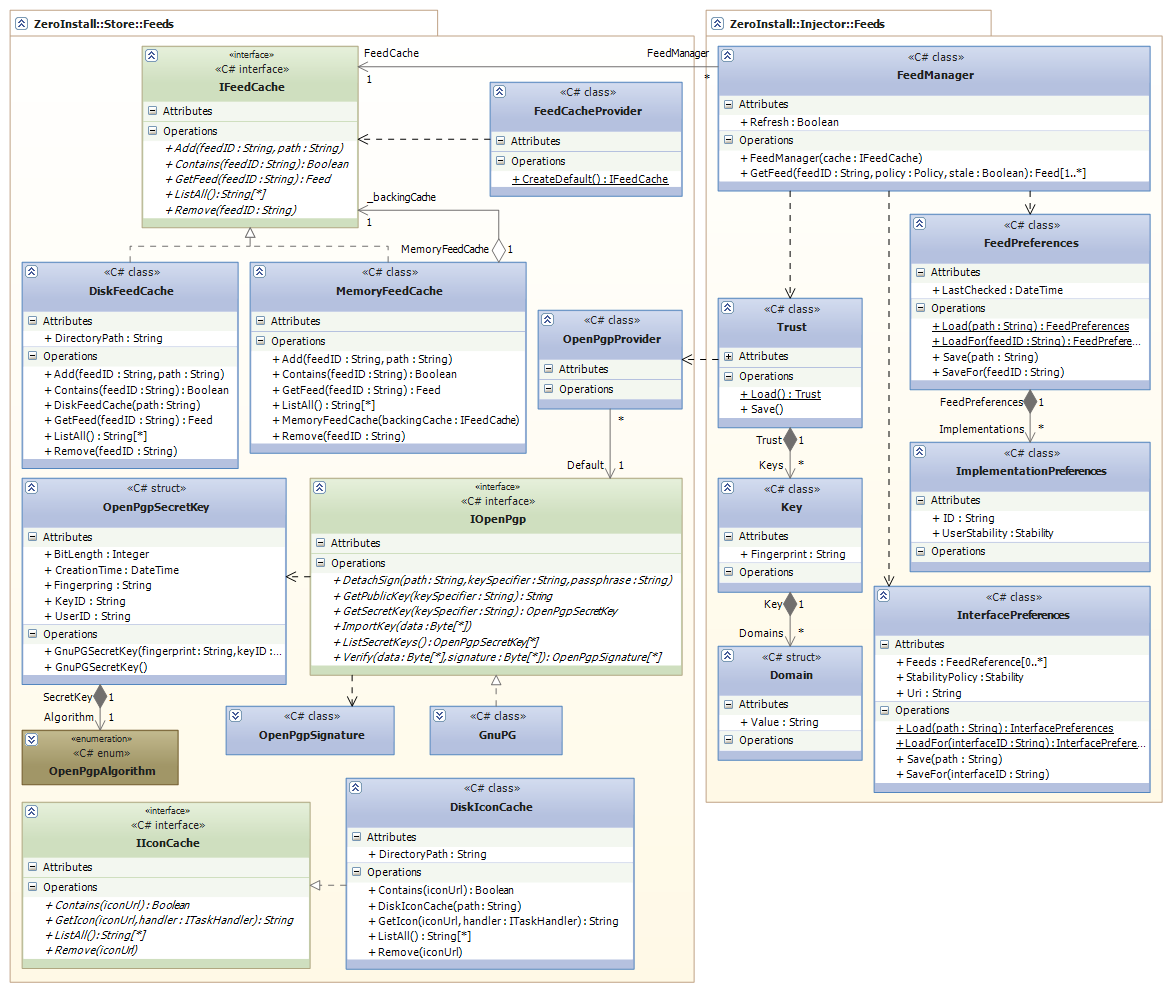
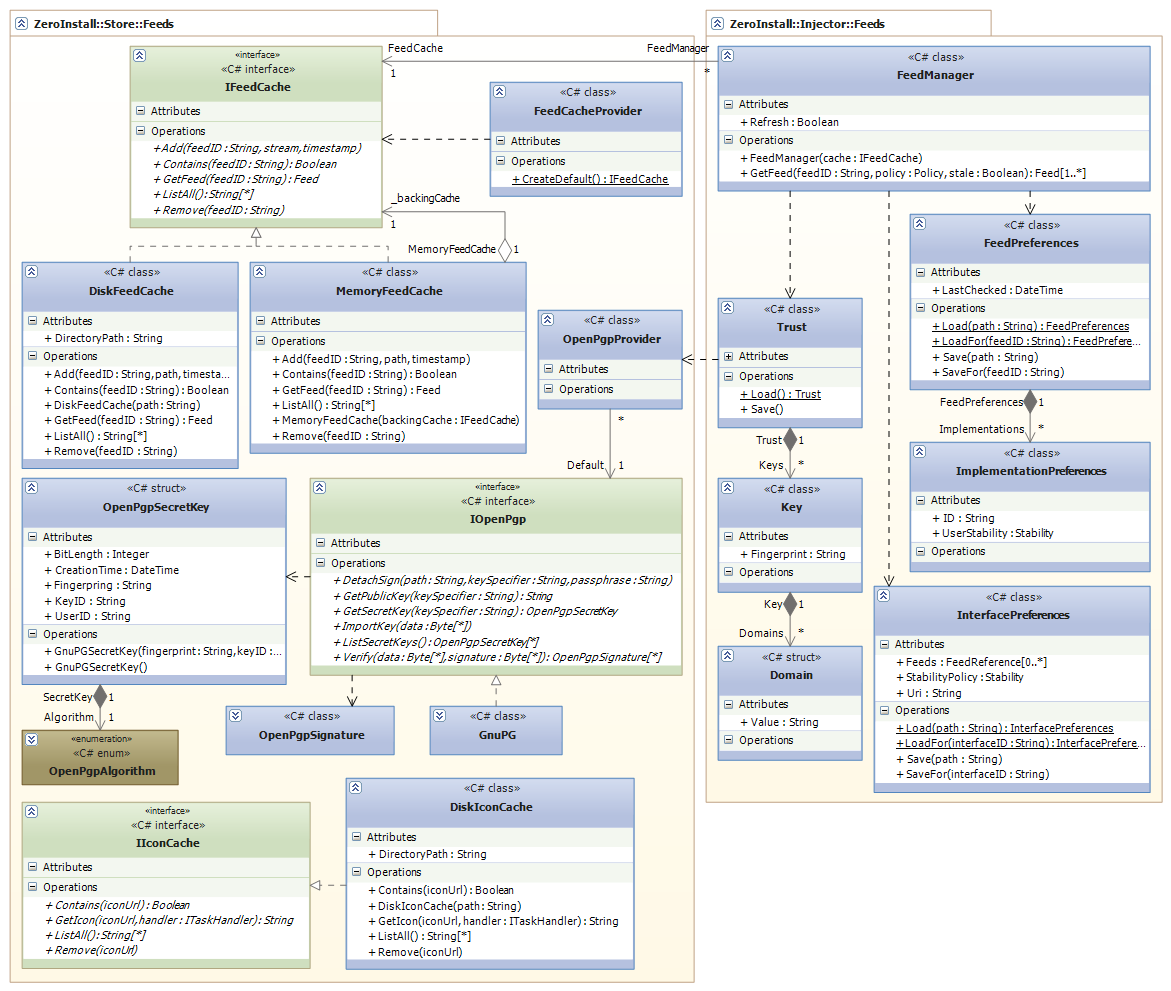
- Modified IFeedCache.Add() signature to use a data stream instead of a file path - Modified MemoryFeedCache.Add() to cache incoming feeds

diff --git a/src/Test.Frontend/Store/Service/SecureStoreTest.cs b/src/Test.Frontend/Store/Service/SecureStoreTest.cs
@@ -15,15 +15,7 @@
  * along with this program.  If not, see <http://www.gnu.org/licenses/>.
  */
 
-using System;
-using System.IO;
-using Common.Collections;
-using Common.Utils;
-using Common.Storage;
 using NUnit.Framework;
-using ZeroInstall.Injector;
-using ZeroInstall.Model;
-using ZeroInstall.Store.Implementation;
 
 namespace ZeroInstall.Store.Service
 {
@@ -33,123 +25,6 @@ namespace ZeroInstall.Store.Service
     [TestFixture]
     public class SecureStoreTest
     {
-        #region Helpers
-        /// <summary>
-        /// Creates a temporary directory containing exactly one file named "file.txt" containing 3 ASCII-encoded capital As.
-        /// </summary>
-        /// <returns>The path of the directory</returns>
-        internal static string CreateArtificialPackage()
-        {
-            string packageDir = FileUtils.GetTempDirectory("0install-unit-tests");
-            string subDir = Path.Combine(packageDir, "subdir");
-            Directory.CreateDirectory(subDir);
-            File.WriteAllText(Path.Combine(subDir, "file.txt"), @"AAA");
-
-            return packageDir;
-        }
-        #endregion
-
-        private TemporaryDirectory _tempDir;
-        private SecureStore _store;
-        private string _packageDir;
-
-        [SetUp]
-        public void SetUp()
-        {
-            _tempDir = new TemporaryDirectory("0install-unit-tests");
-            _store = new SecureStore(_tempDir.Path);
-            _packageDir = CreateArtificialPackage();
-        }
-
-        [TearDown]
-        public void TearDown()
-        {
-            _tempDir.Dispose();
-            if (Directory.Exists(_packageDir)) Directory.Delete(_packageDir, true);
-        }
-
-        //[Test]
-        public void ShouldTellIfItContainsAnImplementation()
-        {
-            string hash = Manifest.CreateDotFile(_packageDir, ManifestFormat.Sha256, new SilentHandler());
-
-            Directory.Move(_packageDir, Path.Combine(_store.DirectoryPath, hash));
-            Assert.True(_store.Contains(new ManifestDigest(hash)));
-        }
-
-        //[Test]
-        public void ShouldAllowToAddFolder()
-        {
-            var digest = new ManifestDigest(Manifest.CreateDotFile(_packageDir, ManifestFormat.Sha256, new SilentHandler()));
-            var store = _store;
-            store.AddDirectory(_packageDir, digest, new SilentHandler());
-
-            Assert.IsTrue(store.Contains(digest), "After adding, Store must contain the added package");
-            CollectionAssert.AreEqual(new[] { digest }, store.ListAll(), "After adding, Store must show the added package in the complete list");
-        }
-
-        //[Test]
-        public void ShouldHandleRelativePaths()
-        {
-            // Change the working directory
-            string workingDir = Environment.CurrentDirectory;
-            Environment.CurrentDirectory = _tempDir.Path;
-            _store = new SecureStore(".");
-
-            ShouldAllowToAddFolder();
-
-            // Restore the original working directory
-            Environment.CurrentDirectory = workingDir;
-        }
-
-        //[Test]
-        public void ShouldAllowToRemove()
-        {
-            var digest = new ManifestDigest(Manifest.CreateDotFile(_packageDir, ManifestFormat.Sha256, new SilentHandler()));
-
-            var store = _store;
-            store.AddDirectory(_packageDir, digest, new SilentHandler());
-            Assert.IsTrue(store.Contains(digest), "After adding, Store must contain the added package");
-            store.Remove(digest, new SilentHandler());
-            Assert.IsFalse(store.Contains(digest), "After remove, Store may no longer contain the added package");
-        }
-
-        //[Test]
-        public void ShouldThrowOnAddWithEmptyDigest()
-        {
-            Assert.Throws(typeof(ArgumentException), () => _store.AddDirectory(_packageDir, new ManifestDigest(), new SilentHandler()));
-        }
-
-        //[Test]
-        public void ShouldReturnCorrectPathOfPackageInCache()
-        {
-            string hash = Manifest.CreateDotFile(_packageDir, ManifestFormat.Sha256, new SilentHandler());
-
-            Directory.Move(_packageDir, Path.Combine(_store.DirectoryPath, hash));
-            Assert.AreEqual(Path.Combine(_store.DirectoryPath, hash), _store.GetPath(new ManifestDigest(hash)), "Store must return the correct path for Implementations it contains");
-        }
-
-        //[Test]
-        public void ShouldThrowWhenRequestedPathOfUncontainedPackage()
-        {
-            Assert.Throws(typeof(ImplementationNotFoundException), () => _store.GetPath(new ManifestDigest("sha256=123")));
-        }
-
-        //[Test]
-        public void ShouldDetectDamagedImplementations()
-        {
-            var digest = new ManifestDigest(Manifest.CreateDotFile(_packageDir, ManifestFormat.Sha1New, new SilentHandler()));
-            var store = _store;
-            store.AddDirectory(_packageDir, digest, new SilentHandler());
-
-            // After correctly adding a directory, the store should be valid
-            CollectionAssert.IsEmpty(_store.Audit(new SilentHandler()));
-
-            // A contaminated store should be detected
-            Directory.CreateDirectory(Path.Combine(_tempDir.Path, "sha1new=abc"));
-            DigestMismatchException problem = EnumerableUtils.GetFirst(store.Audit(new SilentHandler()));
-            Assert.AreEqual("sha1new=abc", problem.ExpectedHash);
-            Assert.AreEqual("sha1new=da39a3ee5e6b4b0d3255bfef95601890afd80709", problem.ActualHash);
-        }
+        // ToDo
     }
 }

diff --git a/src/Test.Backend/Store/Feeds/MemoryFeedCacheTest.cs b/src/Test.Backend/Store/Feeds/MemoryFeedCacheTest.cs
@@ -16,7 +16,7 @@
  */
 
 using System;
-using Common.Storage;
+using System.IO;
 using NUnit.Framework;
 using NUnit.Mocks;
 using ZeroInstall.Model;
@@ -87,48 +87,54 @@ namespace ZeroInstall.Store.Feeds
         [Test]
         public void TestAdd()
         {
-            using (var feedFile = new TemporaryFile("0install-unit-tests"))
+            using (var feedStream = new MemoryStream())
             {
+                _feed.Save(feedStream);
+                feedStream.Position = 0;
+
                 // Expect pass-through on adding
-                _cacheMock.ExpectAndReturn("Add", null, "http://0install.de/feeds/test/test1.xml", feedFile.Path);
-                _feed.Save(feedFile.Path);
-                _cache.Add("http://0install.de/feeds/test/test1.xml", feedFile.Path);
+                var timestamp = new DateTime(2000, 1, 1);
+                _cacheMock.Expect("Add", "http://0install.de/feeds/test/test1.xml", feedStream, timestamp);
+                _cache.Add("http://0install.de/feeds/test/test1.xml", feedStream, timestamp);
             }
 
-            // Expect pass-through on first get
+            // Expect no pass-through due to caching on .Add()
             _feed.Simplify();
-            _cacheMock.ExpectAndReturn("GetFeed", _feed, "http://0install.de/feeds/test/test1.xml");
             Feed firstAccess = _cache.GetFeed("http://0install.de/feeds/test/test1.xml");
             Assert.AreEqual(_feed, firstAccess);
             Feed secondAccess = _cache.GetFeed("http://0install.de/feeds/test/test1.xml");
             Assert.AreSame(firstAccess, secondAccess, "Cache should return identical reference on multiple GetFeed() calls");
 
-            using (var feedFile = new TemporaryFile("0install-unit-tests"))
+            using (var feedStream = new MemoryStream())
             {
+                _feed.Save(feedStream);
+                feedStream.Position = 0;
+
                 // Expect pass-through on adding
-                _cacheMock.ExpectAndReturn("Add", null, "http://0install.de/feeds/test/test1.xml", feedFile.Path);
-                _feed.Save(feedFile.Path);
-                _cache.Add("http://0install.de/feeds/test/test1.xml", feedFile.Path);
+                var timestamp = new DateTime(2000, 1, 1);
+                _cacheMock.Expect("Add", "http://0install.de/feeds/test/test1.xml", feedStream, timestamp);
+                _cache.Add("http://0install.de/feeds/test/test1.xml", feedStream, timestamp);
             }
 
-            _cacheMock.ExpectAndReturn("GetFeed", _feed.CloneFeed(), "http://0install.de/feeds/test/test1.xml");
             Assert.AreNotSame(firstAccess, _cache.GetFeed("http://0install.de/feeds/test/test1.xml"), "Adding again should overwrite cache entry");
         }
 
         [Test]
         public void TestRemove()
         {
-            using (var feedFile = new TemporaryFile("0install-unit-tests"))
+            using (var feedStream = new MemoryStream())
             {
+                _feed.Save(feedStream);
+                feedStream.Position = 0;
+
                 // Expect pass-through on adding
-                _cacheMock.ExpectAndReturn("Add", null, "http://0install.de/feeds/test/test1.xml", feedFile.Path);
-                _feed.Save(feedFile.Path);
-                _cache.Add("http://0install.de/feeds/test/test1.xml", feedFile.Path);
+                var timestamp = new DateTime(2000, 1, 1);
+                _cacheMock.Expect("Add", "http://0install.de/feeds/test/test1.xml", feedStream, timestamp);
+                _cache.Add("http://0install.de/feeds/test/test1.xml", feedStream, timestamp);
             }
 
-            // Expect pass-through on first get
+            // Expect no pass-through due to caching on .Add()
             _feed.Simplify();
-            _cacheMock.ExpectAndReturn("GetFeed", _feed, "http://0install.de/feeds/test/test1.xml");
             Feed firstAccess = _cache.GetFeed("http://0install.de/feeds/test/test1.xml");
             Assert.AreEqual(_feed, firstAccess);
             Feed secondAccess = _cache.GetFeed("http://0install.de/feeds/test/test1.xml");

diff --git a/src/Store/Feeds/DiskFeedCache.cs b/src/Store/Feeds/DiskFeedCache.cs
@@ -18,6 +18,8 @@
 using System;
 using System.Collections.Generic;
 using System.IO;
+using Common.Streams;
+using Common.Utils;
 using ZeroInstall.Model;
 using ZeroInstall.Store.Properties;
 
@@ -122,26 +124,42 @@ namespace ZeroInstall.Store.Feeds
 
         #region Add
         /// <inheritdoc/>
-        public void Add(string feedID, string path)
+        public void Add(string feedID, Stream stream, DateTime timestamp)
         {
             #region Sanity checks
             if (string.IsNullOrEmpty(feedID)) throw new ArgumentNullException("feedID");
             ModelUtils.ValidateInterfaceID(feedID);
-            if (string.IsNullOrEmpty(path)) throw new ArgumentNullException("path");
+            if (stream == null) throw new ArgumentNullException("stream");
             #endregion
 
-            // Don't cache local files
-            if (feedID == path) return;
-
-            string targetPath = Path.Combine(DirectoryPath, ModelUtils.Escape(feedID));
+            string path = Path.Combine(DirectoryPath, ModelUtils.Escape(feedID));
 
             // Detect replay attacks
-            var oldTime = File.GetLastWriteTimeUtc(targetPath);
-            var newTime = File.GetLastWriteTimeUtc(path);
-            if (oldTime > newTime)
-                throw new ReplayAttackException(string.Format(Resources.ReplayAttack, feedID, oldTime, newTime));
+            try
+            {
+                var oldTime = File.GetLastWriteTimeUtc(path);
+                if (oldTime > timestamp)
+                    throw new ReplayAttackException(string.Format(Resources.ReplayAttack, feedID, oldTime, timestamp));
+            }
+            catch(FileNotFoundException)
+            {}
 
-            File.Copy(path, targetPath);
+            try
+            {
+                // Perform atomic replace
+                using (var fileStream = File.OpenWrite(path + ".new"))
+                    StreamUtils.Copy(stream, fileStream, 4096);
+                File.SetLastWriteTimeUtc(path + ".new", timestamp);
+                FileUtils.Replace(path + ".new", path);
+            }
+            catch
+            {
+                // Don't leave partial downloads in the cache
+                if (File.Exists(path + ".new")) File.Delete(path + ".new");
+
+                // Only pass on exceptions if there wasn't a suitable file in the cache already
+                if (!File.Exists(path)) throw;
+            }
         }
         #endregion
 

diff --git a/src/Store/Feeds/MemoryFeedCache.cs b/src/Store/Feeds/MemoryFeedCache.cs
@@ -17,6 +17,7 @@
 
 using System;
 using System.Collections.Generic;
+using System.IO;
 using ZeroInstall.Model;
 
 namespace ZeroInstall.Store.Feeds
@@ -25,7 +26,7 @@ namespace ZeroInstall.Store.Feeds
     /// Provides an additional in-memory cache layer above another <see cref="IFeedCache"/>.
     /// </summary>
     /// <remarks>
-    ///   <para>Local feed files are also stored by this cache.</para>
+    ///   <para>Local feed files are also cached when read.</para>
     ///   <para>Once a feed has been added to this cache it is considered trusted (signature is not checked again).</para>
     /// </remarks>
     public sealed class MemoryFeedCache : IFeedCache
@@ -94,19 +95,24 @@ namespace ZeroInstall.Store.Feeds
 
         #region Add
         /// <inheritdoc/>
-        public void Add(string feedID, string path)
+        public void Add(string feedID, Stream stream, DateTime timestamp)
         {
             #region Sanity checks
             if (string.IsNullOrEmpty(feedID)) throw new ArgumentNullException("feedID");
             ModelUtils.ValidateInterfaceID(feedID);
-            if (string.IsNullOrEmpty(path)) throw new ArgumentNullException("path");
+            if (stream == null) throw new ArgumentNullException("stream");
             #endregion
+
+            // Add to underlying cache
+            _backingCache.Add(feedID, stream, timestamp);
 
             // Remove old version from memory cache
             _feedDictionary.Remove(feedID);
 
-            // Add to underlying cache
-            _backingCache.Add(feedID, path);
+            // Add to memory cache
+            var feed = Feed.Load(stream);
+            feed.Simplify();
+            _feedDictionary.Add(feedID, feed);
         }
         #endregion
 

diff --git a/src/Test.Backend/Store/Feeds/DiskFeedCacheTest.cs b/src/Test.Backend/Store/Feeds/DiskFeedCacheTest.cs
@@ -104,17 +104,30 @@ namespace ZeroInstall.Store.Feeds
             var feed = FeedTest.CreateTestFeed();
             feed.Uri = new Uri("http://0install.de/feeds/test/test3.xml");
 
-            using (var tempFile = new TemporaryFile("0install-unit-tests"))
+            using (var feedStream = new MemoryStream())
             {
-                feed.Save(tempFile.Path);
-                File.SetLastWriteTimeUtc(tempFile.Path, new DateTime(2000, 1, 1));
+                feed.Save(feedStream);
+                feedStream.Position = 0;
+                _cache.Add(feed.Uri.ToString(), feedStream, new DateTime(2000, 1, 1));
 
-                _cache.Add(feed.Uri.ToString(), tempFile.Path);
                 feed.Simplify();
                 Assert.AreEqual(feed, _cache.GetFeed(feed.Uri.ToString()));
+            }
+        }
 
-                File.SetLastWriteTimeUtc(tempFile.Path, new DateTime(1998, 1, 1));
-                Assert.Throws<ReplayAttackException>(() => _cache.Add(feed.Uri.ToString(), tempFile.Path), "Should reject overwriting newer files with older ones");
+        [Test]
+        public void TestReplayAttack()
+        {
+            var feed = FeedTest.CreateTestFeed();
+            feed.Uri = new Uri("http://0install.de/feeds/test/test3.xml");
+
+            using (var feedStream = new MemoryStream())
+            {
+                feed.Save(feedStream);
+                feedStream.Position = 0;
+                _cache.Add(feed.Uri.ToString(), feedStream, new DateTime(2000, 1, 1));
+
+                Assert.Throws<ReplayAttackException>(() => _cache.Add(feed.Uri.ToString(), feedStream, new DateTime(1999, 1, 1)));
             }
         }
 

diff --git a/src/Store/Feeds/IFeedCache.cs b/src/Store/Feeds/IFeedCache.cs
@@ -51,13 +51,14 @@ namespace ZeroInstall.Store.Feeds
         /// Adds a new <see cref="Feed"/> file to the cache. Only do this after the feed source has been verified and trusted!
         /// </summary>
         /// <param name="feedID">The canonical ID used to identify the feed.</param>
-        /// <param name="path">The local path of the file to be added.</param>
+        /// <param name="stream">A stream containing the data of the feed to be added.</param>
+        /// <param name="timestamp">The timestamp of the feed's signautre.</param>
         /// <exception cref="InvalidInterfaceIDException">Thrown if <paramref name="feedID"/> is an invalid interface ID.</exception>
         /// <exception cref="ReplayAttackException">Thrown if the file to be added is older than a version already located in the cache.</exception>
-        /// <exception cref="IOException">Thrown if a problem occured while reading or writing the feed file.</exception>
+        /// <exception cref="IOException">Thrown if a problem occured while writing the feed file.</exception>
         /// <exception cref="UnauthorizedAccessException">Thrown if write access to the cache is not permitted.</exception>
         /// <exception cref="InvalidDataException">Thrown if the feed file could not be parsed.</exception>
-        void Add(string feedID, string path);
+        void Add(string feedID, Stream stream, DateTime timestamp);
 
         /// <summary>
         /// Removes a specific <see cref="Feed"/> from this cache.
